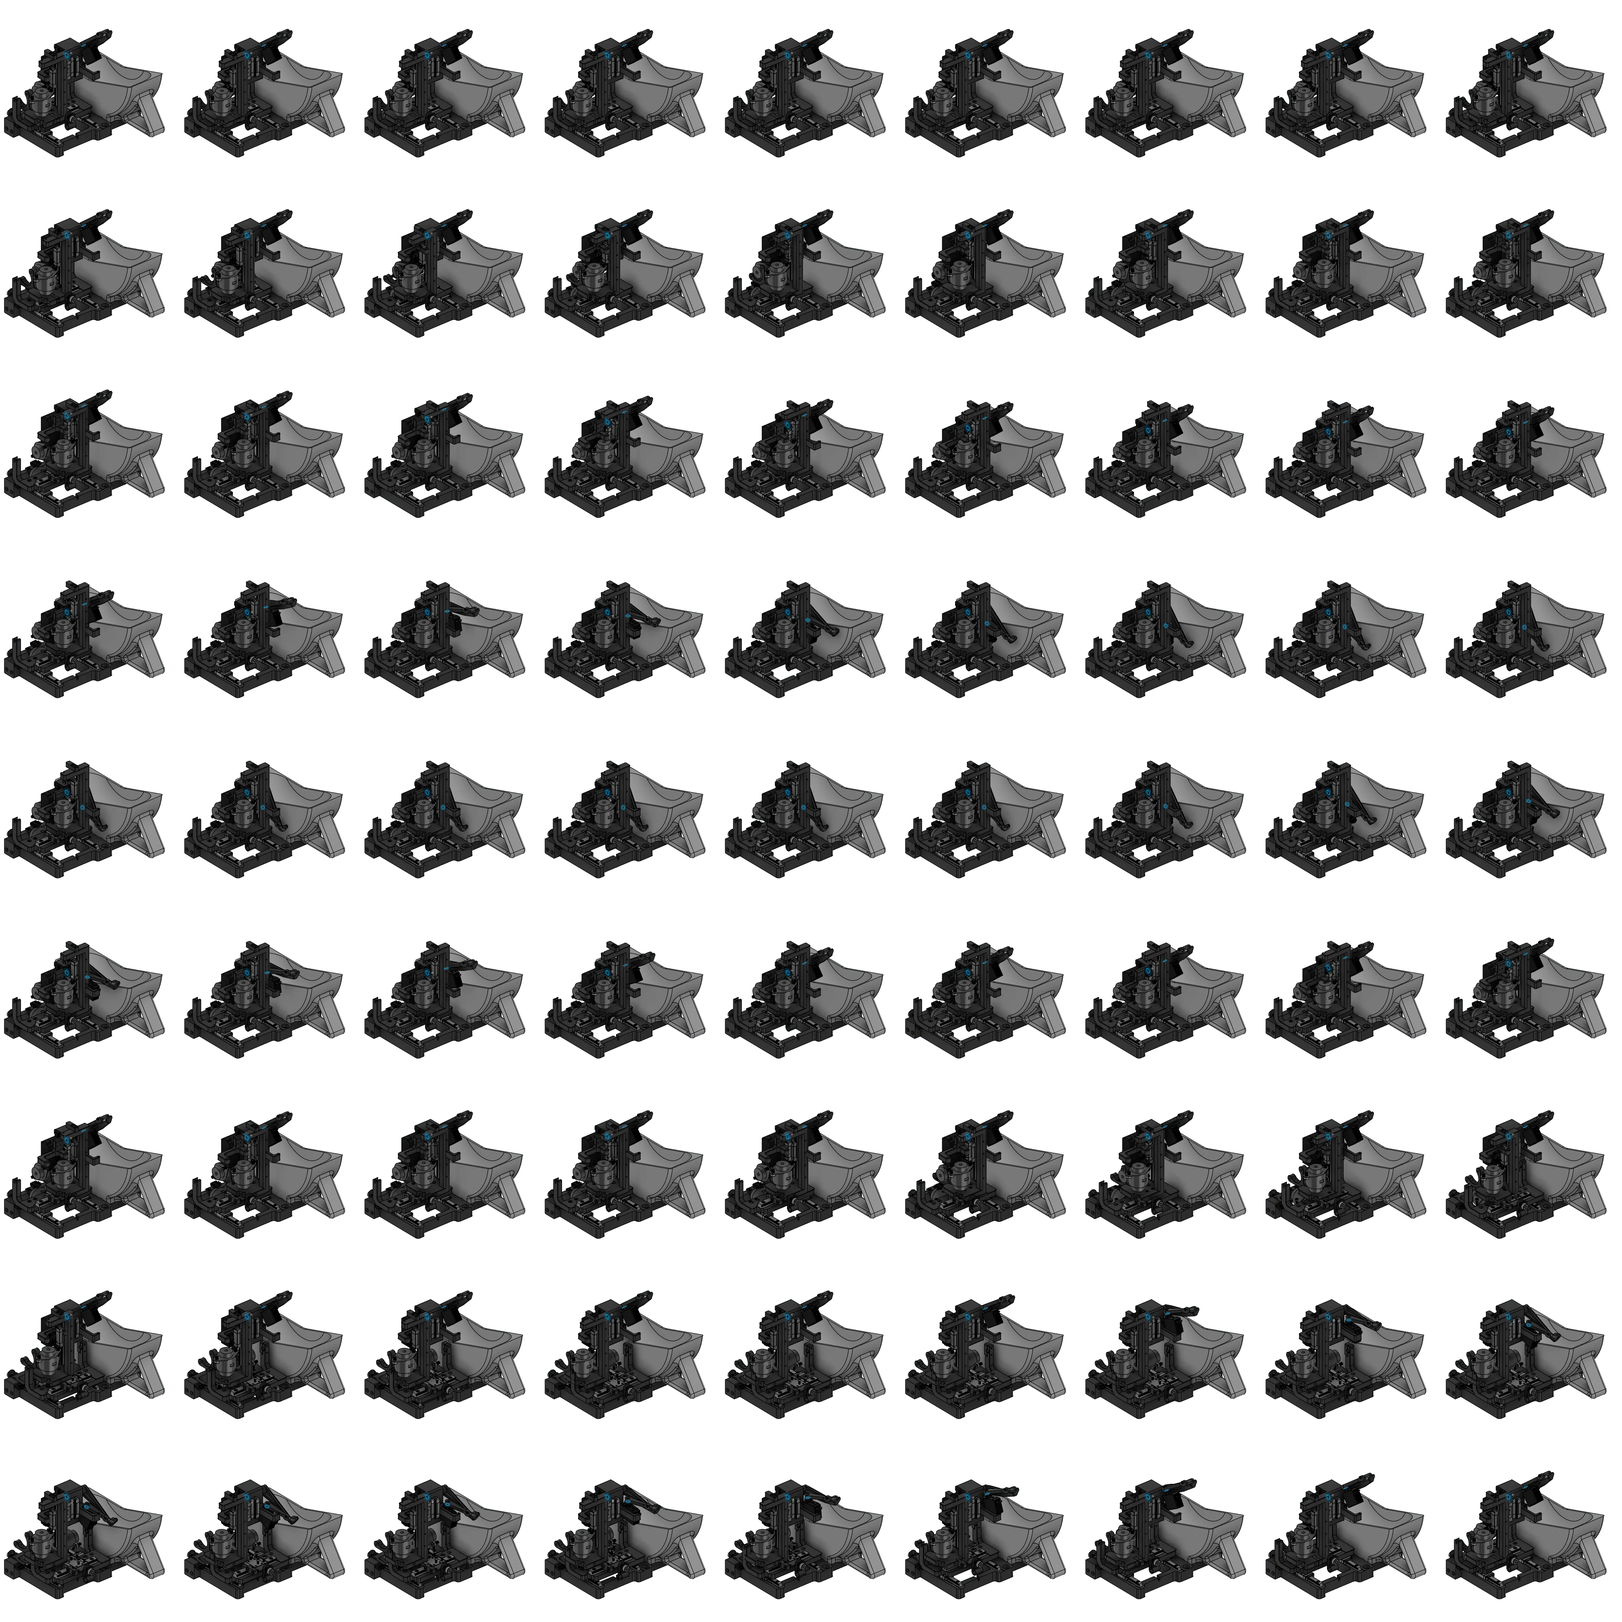
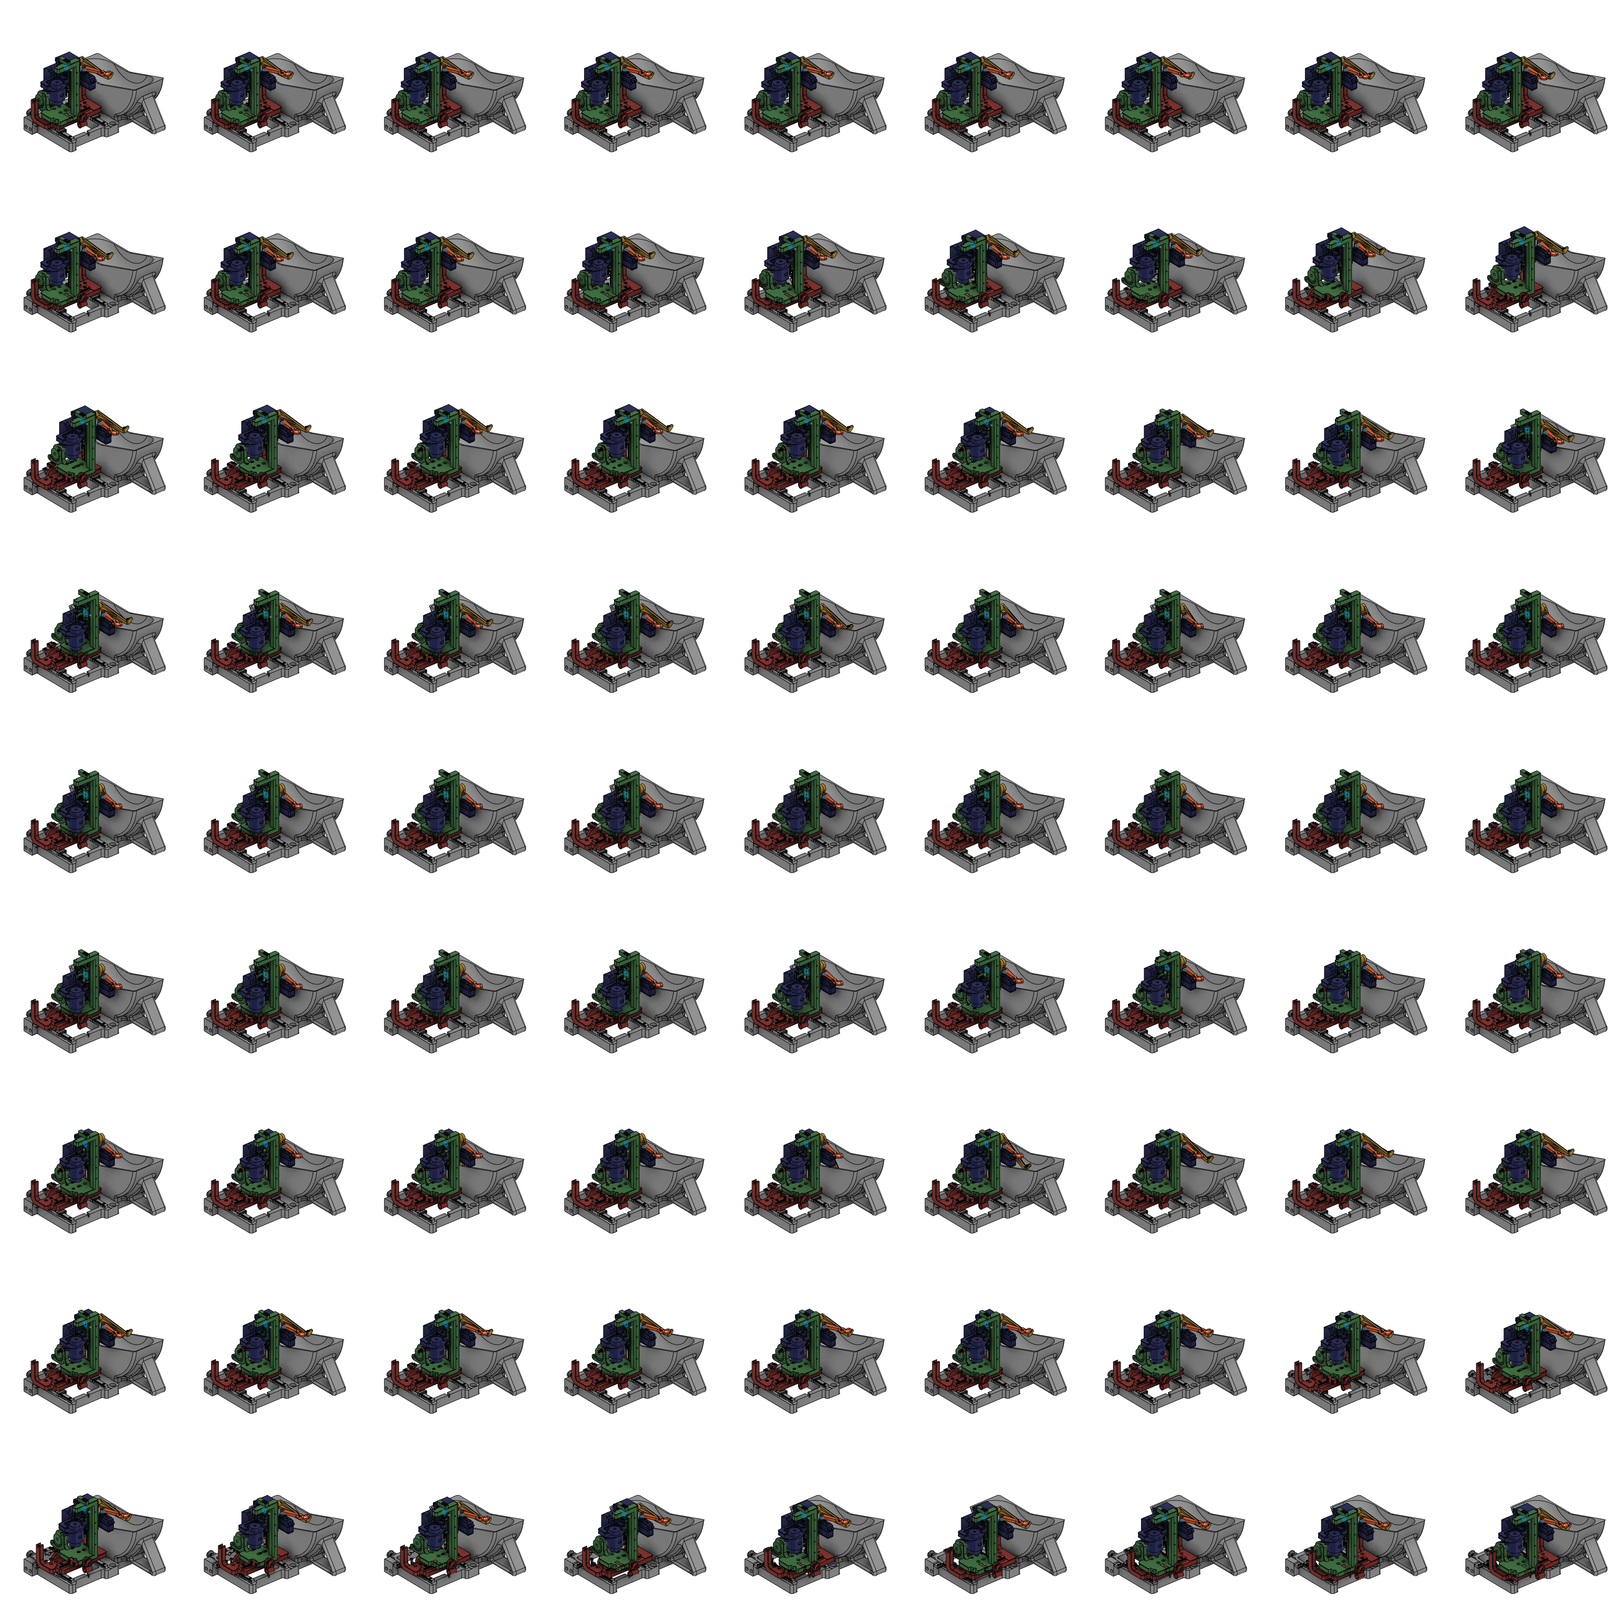
Nest the pellet stages, colour by motion, sync the pellet pair
The pellet gantry moved each axis in isolation because every part got
exactly one stage's offset. Membership was right, composition was missing.
Offsets are cumulative now, per the machine the owner described: the Y
motor drives the X, Y and Z frames together, the X motor drives the Y and
Z frames, the Z motor drives only the Z frame. Each motor is bolted to the
leading frame of its own driven set, so it travels with its own output.

The barrier was bound to the scoop's rotation axis, which swung it out of
frame mid-cycle. 60600-Food_Cap turns about a vertical axis at (X -8.63,
Z -8.73) -- the P0025 shaft bore -- and both barrier and servo are
frame-mounted, translating with the Z frame and taking no part in the
scoop's turn.

And load_pellet in move_config never returns load_arm; the rig does, via
the retrieve predefined. Without it the barrier shuts over a raised arm,
which is what looked like the barrier moving the wrong way. The arm now
returns to flush before the barrier closes.

load_arm 5 needed no offset: the scoop table's underside is already
horizontal in the modelled pose, so "flush, in line with ground" is the
CAD position. The M0170 is coaxial with the scoop bearing, so 5 -> 114 is
a true 109 degrees.

Clamp now runs 0 -> +28 -> 0 at azimuth 250, and 60617-Clamp_Arm_B is back
in and rides the swing -- I had hidden it as clutter, but the rod's lower
pin bore sits inside it, so the rod was ending in mid air.
[…]

diff --git a/src/App.jsx b/src/App.jsx
@@ -130,12 +130,11 @@ const WorkEntry = memo(function WorkEntry({ project, index }) {
   const hasFigure = project.figure === "buildup";
   const demos = project.demos || [];
   const hasDemo = demos.length > 0;
-  /* The demos share one figure and a row of buttons, so the case study stays
-     two balanced columns instead of a stack of four square figures.
-     runs remounts the figure, which is the reliable way to restart a CSS
-     animation; view walks demo.views so one press can play several sprites in
-     sequence. */
-  const [play, setPlay] = useState({ id: null, runs: 0, view: 0 });
+  /* The demos share one stage and a row of buttons, so the case study stays
+     two balanced columns instead of a stack of square figures. Bumping runs
+     remounts the stage, which is the reliable way to restart a CSS animation;
+     a demo listing two ids renders both side by side and they play together. */
+  const [play, setPlay] = useState({ id: null, runs: 0 });
 
   return (
     <article id={`project-${project.id}`} className="work-entry reveal">
@@ -178,9 +177,8 @@ const WorkEntry = memo(function WorkEntry({ project, index }) {
       >
         <summary className="case-summary">Case study</summary>
         <div className={`case-body ${hasFigure ? "case-body--figure" : ""}`}>
-          {hasFigure || hasDemo ? (
-          <div className="case-figures">
           {hasFigure ? (
+          <div className="case-figures">
             <figure className="rig-figure-wrap">
               <div
                 className={`rig-figure ${figureLive ? "is-live" : ""}`}
@@ -191,26 +189,29 @@ const WorkEntry = memo(function WorkEntry({ project, index }) {
                 Full assembly sequence. Scroll to build.
               </figcaption>
             </figure>
+          </div>
           ) : null}
 
+          {/* The demo stage spans both columns: a synchronized pair needs the
+              full width, and stacking it under the build figure would leave a
+              column twice the height of the prose beside it. */}
           {hasDemo ? (() => {
             const active = demos.find((d) => d.id === play.id) || demos[0];
-            const views = active.views || [active.id];
+            const ids = active.ids || [active.id];
             const running = play.id === active.id && play.runs > 0;
             return (
-              <figure className="demo-wrap">
-                <div
-                  key={`${active.id}-${play.runs}-${play.view}`}
-                  data-demo={running ? views[play.view] : views[0]}
-                  className={`demo-figure ${running ? "is-playing" : ""}`}
-                  role="img"
-                  aria-label={`${active.label}. ${active.caption}`}
-                  onAnimationEnd={() => {
-                    if (running && play.view + 1 < views.length) {
-                      setPlay((prev) => ({ ...prev, view: prev.view + 1 }));
-                    }
-                  }}
-                />
+              <figure className="demo-wrap case-demos">
+                <div className={`demo-stage ${ids.length > 1 ? "demo-stage--pair" : ""}`}>
+                  {ids.map((id) => (
+                    <div
+                      key={`${id}-${play.runs}`}
+                      data-demo={id}
+                      className={`demo-figure ${running ? "is-playing" : ""}`}
+                      role="img"
+                      aria-label={`${active.label}. ${active.caption}`}
+                    />
+                  ))}
+                </div>
                 <figcaption className="demo-caption">
                   <div className="demo-switch">
                     {demos.map((demo) => (
@@ -225,7 +226,6 @@ const WorkEntry = memo(function WorkEntry({ project, index }) {
                           setPlay((prev) => ({
                             id: demo.id,
                             runs: prev.id === demo.id ? prev.runs + 1 : 1,
-                            view: 0,
                           }))
                         }
                       >
@@ -238,8 +238,6 @@ const WorkEntry = memo(function WorkEntry({ project, index }) {
               </figure>
             );
           })() : null}
-          </div>
-          ) : null}
 
           <div className="case-text">
             <div className="case-block">

diff --git a/src/spa.css b/src/spa.css
@@ -738,6 +738,20 @@ summary {
   margin: 0;
 }
 
+/* One or two square figures. background-size percentages resolve against the
+   padding box of each figure, so the stage only ever changes how wide a
+   figure is - never its padding or background-origin. */
+.demo-stage {
+  display: grid;
+  gap: clamp(0.75rem, 1.5vw, 1.25rem);
+  max-width: 30rem;
+}
+
+.demo-stage--pair {
+  grid-template-columns: repeat(2, minmax(0, 1fr));
+  max-width: 62rem;
+}
+
 /* One base rule for every demo. The per-demo poster, grid and keyframes come
    from the generated src/demo-<id>.css files. */
 /* No padding and no background-origin change here: the generated
@@ -798,6 +812,17 @@ summary {
 }
 
 /* Figure beside the prose rather than stacked on top of it. */
+/* Demos sit in their own row under the two-column block. */
+.case-demos {
+  margin-top: clamp(1.75rem, 3.5vw, 2.75rem);
+}
+
+@media (min-width: 56rem) {
+  .case-body--figure > .case-demos {
+    grid-column: 1 / -1;
+  }
+}
+
 .case-text {
   display: grid;
   gap: clamp(1.25rem, 2.5vw, 1.75rem);
@@ -822,13 +847,32 @@ summary {
       background-position: 0% 0%;
       animation: rig-buildup step-end both;
       animation-timeline: view();
-      /* cover, not entry. "entry 100%" completes as soon as the figure is
-         fully in view, which for a figure revealed by opening a disclosure
-         happens immediately, leaving nothing left to scrub. cover spans the
-         figure's whole travel through the viewport, and using almost all of
-         it gives the 100-frame sequence the longest scrub available without
-         a sticky wrapper. */
-      animation-range: cover 2% cover 98%;
+      /* Not "entry 100%": that completes the instant the figure is fully in
+         view, which for a figure revealed by opening a disclosure is
+         immediately, leaving nothing to scrub.
+
+         Not plain "cover" either. cover spans the figure's whole travel
+         through the viewport, which means the opening frames advance while
+         the figure is still below the fold and the closing frames advance
+         while it is already scrolling off the top: the two ends of the
+         sequence play out of frame.
+
+         contain is exactly the window where the figure is wholly on screen,
+         so every frame is scrubbed while you can see it. It degenerates when
+         the figure is taller than the viewport, hence the short-viewport
+         fallback below. Inset at both ends so the first and last frames get
+         a beat of stillness while the figure is squarely on screen. */
+      animation-range: contain 8% contain 92%;
+    }
+
+    /* Where the square figure cannot fit inside the viewport, contain has no
+       range and the scrub would hold on frame 0. Fall back to the middle of
+       cover, which is the part of the travel with the most of the figure on
+       screen. */
+    @media (max-height: 45rem) {
+      .rig-figure.is-live {
+        animation-range: cover 32% cover 68%;
+      }
     }
   }
 }

diff --git a/src/siteData.js b/src/siteData.js
@@ -160,18 +160,19 @@ export const projects = [
     demos: [
       {
         id: "pellet",
-        /* Two passes on one button: the module as installed, then the same
-           cycle close on the mechanism. */
-        views: ["pellet", "pellet-close"],
+        /* Two figures, one button, played together: the module as installed
+           and the same cycle close on the mechanism. Both sprites are 81
+           frames over the same duration, so they stay frame-locked. */
+        ids: ["pellet", "pellet-close"],
         label: "Pellet delivery",
         caption:
-          "One load and send cycle, twice: the module as installed, then close on the mechanism. Every stage rides only its own rail, over the real 30 mm stroke. The vat is drawn translucent so the scoop stays visible inside it.",
+          "One load-and-send cycle, in context and close up at the same time. Order and servo angles come from the rig's own move_config: barrier out, traverse, drop, scoop through 109°, lift, arm back to flush, barrier closed over the pellet, send. Colour marks what moves together — the lift rides the X carriage, which rides the base — and the vat is drawn translucent so the scoop stays visible inside it.",
       },
       {
         id: "tunnel",
         label: "Head-fix clamp",
         caption:
-          "The magnet swing engaging and releasing. Servo horn, push rod and swing are solved as the four-bar they are, off the real pivot axes; the swing stops at 28° because the linkage locks at 32°.",
+          "Releasing and re-engaging the head clamp, 28° off the shoulder-screw axis. Servo horn, push rod, spring and swing are solved as the four-bar they are, off pivots measured from the pin bores. Each part that moves carries its own colour.",
       },
       {
         id: "pcb",

diff --git a/docs/fusion-animation-pipeline.md b/docs/fusion-animation-pipeline.md
@@ -594,9 +594,11 @@ branch, which reproduces the modelled crank angle (-14.17 degrees) at rocker 0
 and so proves the pin estimates are self-consistent. Place the coupler from its
 two pin correspondences rather than rotating it about anything.
 
-The payoff is a limit the animation did not have to invent: **the linkage locks
-near -32 degrees**, where `|cos phi| > 1`. The owner's remembered 30 degrees of
-travel is the mechanism's own range. The shipped animation stops at -28.
+> **Retracted.** This section originally claimed the linkage locks near -32
+> degrees and that this confirmed the owner's 30 degrees of travel. That came
+> from a coupler length estimated off bounding boxes and 1 cm too long. See
+> *Read pin bores, not bounding boxes, for linkage lengths* below for the
+> measured geometry: there is no lock near 30 degrees.
 
 A 30 degree swing needs a 78 degree servo throw, which is why animating the
 swing alone looked wrong: the horn is the part that moves most.
@@ -659,6 +661,134 @@ is the only reason the honest palette is shippable.
 Do **not** add padding or change `background-origin` on `.demo-figure`: the
 generated `background-size` percentages resolve against the padding box, so
 either would silently rescale every sprite grid.
+
+### Nested stages need CUMULATIVE offsets, not one offset each
+
+The bug that shipped: every part was assigned to exactly one stage and then
+given only that stage's offset. Each axis therefore moved in isolation and the
+gantry came apart. Group membership was right; composition was missing.
+
+The owner's description of the machine, which is what the code now implements:
+
+| group | offsets it receives | why |
+|---|---|---|
+| fixed | — | base plate, base rails, vat, mount magnets, base end stop |
+| X frame | **Y** | the Y motor drives the X, Y and Z frames together |
+| Y frame | **Y + X** | the X motor drives the Y and Z frames |
+| Z frame | **Y + X + Z** | the Z motor drives only the Z frame |
+
+Machine Y is world Z here (the base rails run along Z), machine X is world X,
+machine Z is world Y.
+
+**Each motor rides the axis it drives.** The Y motor is bolted to the X frame,
+the X motor to the Y frame, the Z motor to the Z frame — so every motor is
+mounted on the leading frame of its own driven set and translates with its own
+output. Confirmed by the owner; do not "fix" it to the more usual
+stationary-motor arrangement.
+
+### Read pin bores, not bounding boxes, for linkage lengths
+
+I estimated the tunnel clamp's coupler pins from rod-end bbox extremes and got
+a coupler **1 cm too long** (6.048 against the true 5.003). That error produced
+a confident, wrong conclusion: that the linkage locks near −32°, and that this
+independently confirmed the owner's remembered 30° of travel. It does not. With
+the measured pins the rocker is feasible from **−128° to +46°** and there is no
+lock anywhere near 30°.
+
+The pins are small transverse cylinders and they read out exactly:
+
+| feature | source | (Y, Z) |
+|---|---|---|
+| crank axis | servo `50898` and horn `50850`, r 0.392 | 19.08, 3.46 |
+| coupler pin on horn | horn r 0.286 and upper rod r 0.117 agree | 20.78, 2.59 |
+| coupler pin on swing side | lower rod r 0.117 | 17.10, −0.80 |
+| rocker axis | both `70710` shoulder screws, r 0.20 | 18.90, −2.98 |
+
+Corrected links: crank **1.910**, coupler **5.003**, rocker **2.827**, ground
+**6.443**. The `+acos` branch reproduces the modelled crank angle (−27.10°) at
+rocker 0, which is the check that the pin estimates are self-consistent.
+28° of swing costs ~41–47° of servo, inside the 0–100 range `motor_config.yaml`
+gives the tunnel magnet.
+
+The general rule: a bbox extreme is a plausible pin location, never a measured
+one. If a link length matters, find the bore.
+
+### `60617-Clamp_Arm_B` is the rod's lower bracket and rides the swing
+
+Hiding it as "clutter" left the push rod ending in mid-air, because the lower
+coupler pin bore sits inside it. It moves rigidly with the magnet swing. The
+visible chain is swing → `60658` force-sensor contact → `60617-Clamp_Arm_B` →
+rod end → spring → rod end → horn.
+
+### The pellet module's two servos, and the step that was missing
+
+- **`60600-Food_Cap` is the barrier**, and it turns about a **vertical** axis at
+  (X −8.63, Z −8.73) — the bore of the `50919` P0025 shaft. Both the servo and
+  the barrier are **frame-mounted**: they translate with the Z frame and take no
+  part in the scoop's rotation. Binding them to the scoop axis made the barrier
+  swing away and vanish mid-cycle.
+- **`60599-Pellet_Spoon_Table` is the scoop**, turning about the X bearing at
+  (Y 14.69, Z −10.84). Its underside plane is already horizontal in the modelled
+  pose, so `load_arm 5` — the owner's "flush, in line with ground" — needs no
+  offset. The M0170 and that bearing are coaxial, so the servo angle is the
+  scoop angle 1:1 and `5 → 114` is a true 109°.
+
+`load_pellet` in `tests/move_config.yaml` ends with `barrier_arm 80` and never
+returns `load_arm`. The rig does return it — that is the `retrieve` predefined
+on `PELLET_LOAD_SERVO` — and **the arm must be back at 5 before the barrier
+closes** or the barrier shuts over a raised arm. Shipped order:
+
+```
+barrier 80->110, x->25, z->22, load_arm 5->114, z->10,
+load_arm->5 (retrieve), barrier 110->80, send
+```
+
+### Colour by what moves, not by material
+
+The owner's call, and it is the right one for a mechanism: **one colour per
+moving object, everything static in one neutral.** It survives the 300 px the
+figure actually displays at, where a materially accurate render of a dark
+machine turns into a single silhouette, and it makes the nesting legible —
+you can see the lift riding the X carriage riding the base.
+
+Shipped palettes: pellet — grey fixed, red X frame, green Y frame, blue Z
+frame, yellow scoop, orange barrier, translucent grey vat, green PCB. Clamp —
+dark static shell, green swing, cyan contact, orange Clamp_Arm_B, yellow rod
+ends, red spring, blue horn, nickel magnets.
+
+Material accuracy is still the right choice for a static or assembly render.
+Keep the part-number table above for those.
+
+### Turn a dominating flat panel edge-on
+
+`30597-PCB Enclosure SM Mount Panel` is a 20 × 12 cm plate normal to X, and at
+az −40 it ate 45% of the wide pellet frame. Its screen width is its Z extent
+projected on the camera's right vector, so a shallower azimuth shrinks it and
+enlarges the mechanism at the same time: az −25 cut the panel by ~30% and grew
+the mechanism by ~18%.
+
+The limit is that the base stage travels along Z, and Z motion projects onto
+the right vector as `−dv_x/|dv_xz|` — 0.64 at az −40, 0.42 at az −25, 0.17 at
+az −10. Below about 20° the traverse stops reading. az −25 is the corner of that
+trade.
+
+### Scroll range: contain, inset at both ends
+
+`animation-range: cover 2% cover 98%` scrubs the opening frames while the figure
+is still below the fold and the closing frames while it is already leaving the
+top — both ends play out of frame. `contain 0% … 100%` is the window where the
+figure is wholly on screen; **`contain 8% … 92%`** is what shipped, inset so the
+first and last frames get a beat of stillness. A `@media (max-height: 45rem)`
+fallback to `cover 32% … 68%` covers viewports too short for `contain` to have
+any range at all.
+
+### Synchronized figures
+
+Two figures play together simply by getting `.is-playing` in the same render
+with the same frame count and duration; `steps(1)` keeps them frame-locked with
+no JS. They need width, though — side by side inside the narrow figure column
+they were 205 px each, so the demo stage moved to its own `grid-column: 1 / -1`
+row under the two-column case body, which gives 428 px each.
 
 ### MCP timeout does not mean the script failed
 
